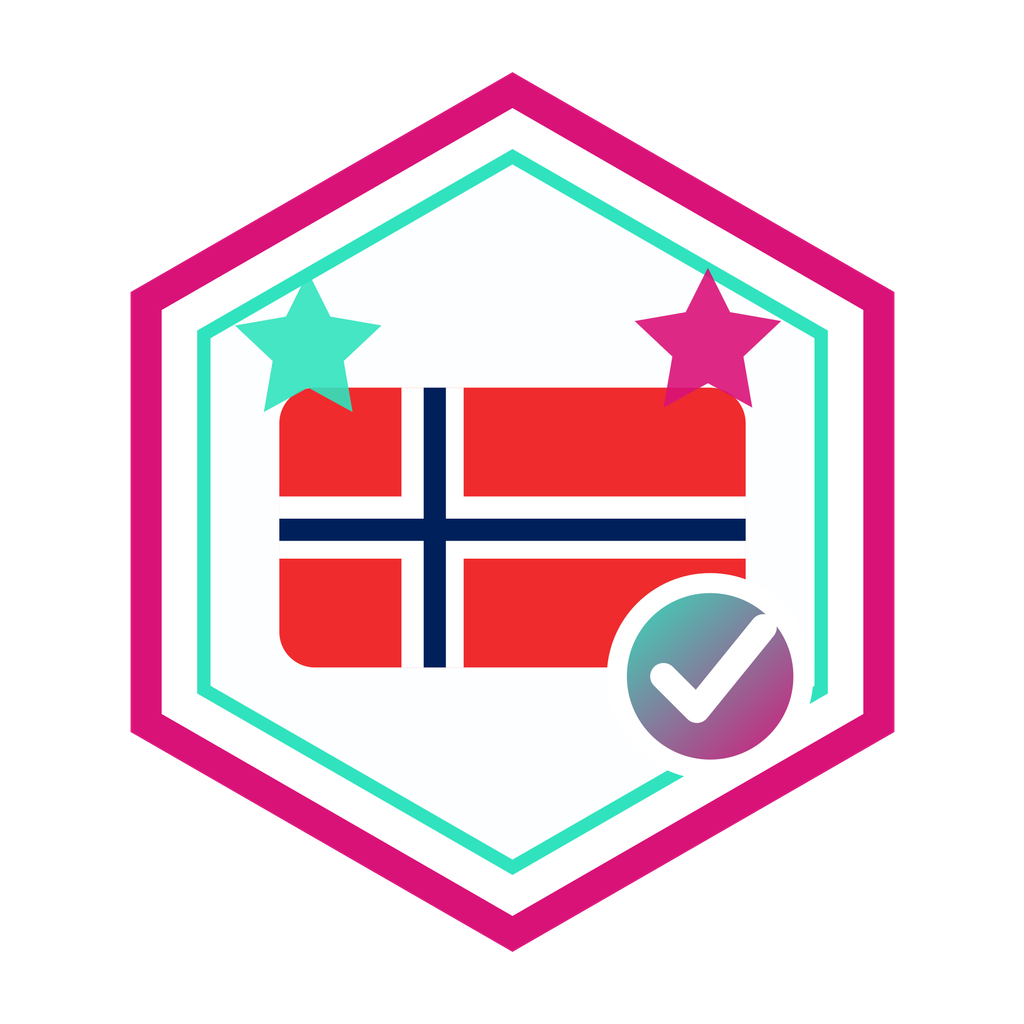
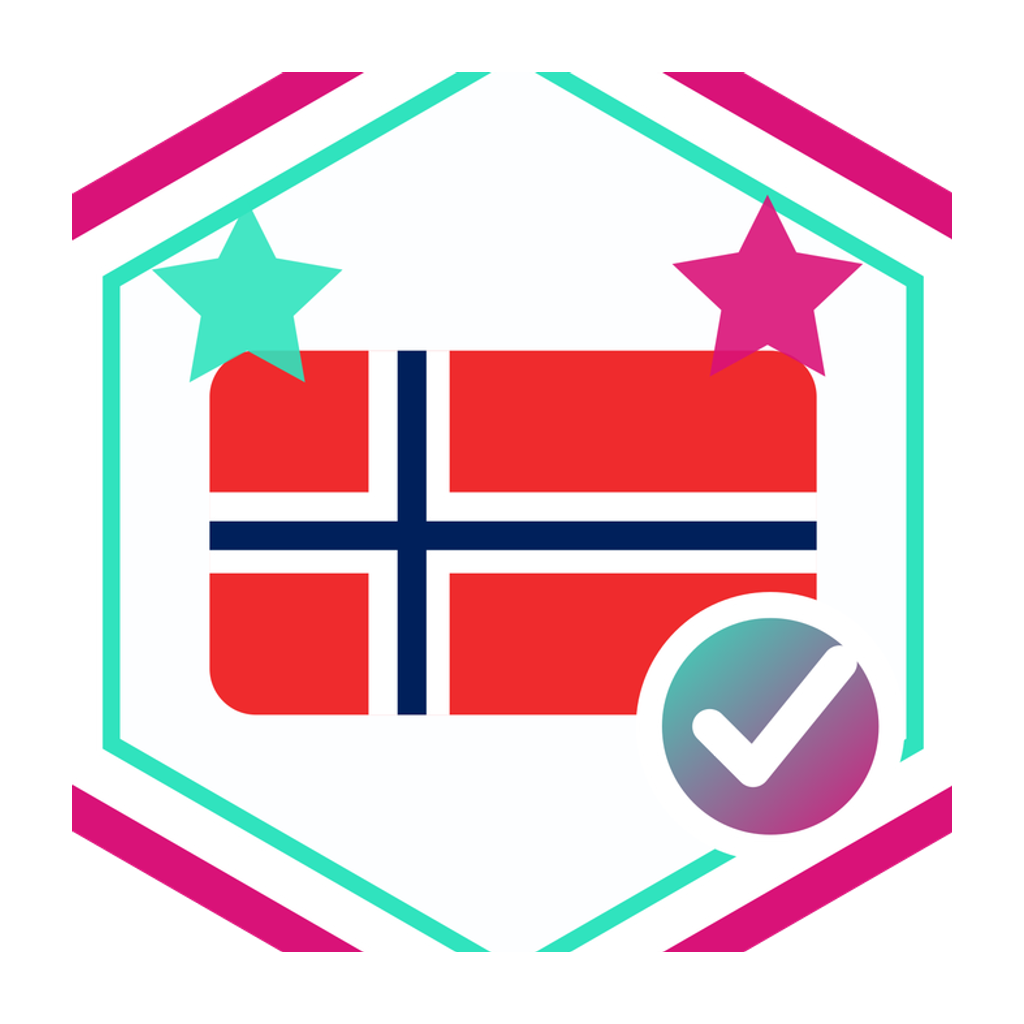
Legg til 200-klubben-badge og rammefri badge-visning.
Nytt ikon for sølv-nivå i klubben, bilde per hundremilepæl, og strip av hvit hex-plate på badge-PNG-er.

diff --git a/src/app/badgeAssets.ts b/src/app/badgeAssets.ts
@@ -1,7 +1,12 @@
 /** Felles badge-bilder (PNG 1024×1024, normalisert visuell størrelse). */
+export const WORKOUT_CLUB_BADGE_IMAGE_BY_TARGET: Record<number, string> = {
+  100: "/badges/32-100-klubben.png",
+  200: "/badges/34-200-klubben.png",
+};
+
 export const MEMBER_BADGE_IMAGE_BY_ID: Record<string, string> = {
   sessions: "/badges/02-oktjeger.png",
-  "workout-club": "/badges/32-100-klubben.png",
+  "workout-club": WORKOUT_CLUB_BADGE_IMAGE_BY_TARGET[100],
   streak: "/badges/08-streak.png",
   "monday-hero": "/badges/30-mandagshelt.png",
   "weekend-warrior": "/badges/31-helgekriger.png",
@@ -35,6 +40,31 @@ export const HIDDEN_MEMBER_BADGE_IMAGE_BY_ID: Record<string, string> = {
   "christmas-pump": MEMBER_BADGE_IMAGE_BY_ID["christmas-pump"],
 };
 
-export function memberBadgeImageSrc(badgeId: string): string {
-  return MEMBER_BADGE_IMAGE_BY_ID[badgeId] ?? "/badges/01-forste-steg.png";
+type MemberBadgeImageInput = {
+  id: string;
+  unlocked: boolean;
+  achievedLevelIndex: number;
+  levels: Array<{ target: number }>;
+};
+
+function workoutClubDisplayTarget(badge: MemberBadgeImageInput): number {
+  const index = badge.unlocked ? Math.max(0, badge.achievedLevelIndex) : 0;
+  return badge.levels[index]?.target ?? 100;
+}
+
+function workoutClubBadgeImageSrc(target: number): string {
+  if (target >= 200) return WORKOUT_CLUB_BADGE_IMAGE_BY_TARGET[200];
+  return WORKOUT_CLUB_BADGE_IMAGE_BY_TARGET[100];
+}
+
+export function memberBadgeImageSrc(badgeId: string): string;
+export function memberBadgeImageSrc(badge: MemberBadgeImageInput): string;
+export function memberBadgeImageSrc(badgeOrId: string | MemberBadgeImageInput): string {
+  if (typeof badgeOrId === "string") {
+    return MEMBER_BADGE_IMAGE_BY_ID[badgeOrId] ?? "/badges/01-forste-steg.png";
+  }
+  if (badgeOrId.id === "workout-club") {
+    return workoutClubBadgeImageSrc(workoutClubDisplayTarget(badgeOrId));
+  }
+  return MEMBER_BADGE_IMAGE_BY_ID[badgeOrId.id] ?? "/badges/01-forste-steg.png";
 }

diff --git a/src/app/badgeImagePresentation.ts b/src/app/badgeImagePresentation.ts
@@ -2,14 +2,14 @@
 export const BADGE_IMAGE_BOX_CLASS = "h-[5.4rem] w-[5.4rem]";
 
 export const BADGE_IMAGE_WRAPPER_CLASS =
-  `${BADGE_IMAGE_BOX_CLASS} overflow-hidden rounded-xl bg-white`;
+  `${BADGE_IMAGE_BOX_CLASS} overflow-hidden rounded-xl bg-transparent`;
 
 /** Ingen ekstra padding — motivet er normalisert til samme canvas som tungvekter. */
 export const BADGE_IMAGE_CLASS =
   "h-full w-full object-contain p-0 drop-shadow-sm";
 
 export const BADGE_IMAGE_POPUP_WRAPPER_CLASS =
-  "mx-auto mt-4 flex h-36 w-36 items-center justify-center overflow-hidden rounded-xl bg-white";
+  "mx-auto mt-4 flex h-36 w-36 items-center justify-center overflow-hidden rounded-xl bg-transparent";
 
 export const BADGE_IMAGE_POPUP_CLASS =
   "h-full w-full object-contain p-0 drop-shadow-sm";

diff --git a/src/app/memberBadges.test.ts b/src/app/memberBadges.test.ts
@@ -1,4 +1,5 @@
 import { describe, expect, it } from "vitest";
+import { memberBadgeImageSrc } from "./badgeAssets";
 import {
   computeActiveCardioMinutesFromLogs,
   computeConsecutiveMondayWorkouts,
@@ -119,6 +120,8 @@ describe("memberBadges", () => {
     expect(secondClub?.title).toBe("200 klubben");
     expect(secondClub?.level).toBe("silver");
     expect(secondClub?.target).toBe(300);
+    expect(firstClub && memberBadgeImageSrc(firstClub)).toContain("32-100-klubben");
+    expect(secondClub && memberBadgeImageSrc(secondClub)).toContain("34-200-klubben");
   });
 
   it("unlocks and upgrades Monday hero from consecutive Monday workouts", () => {

diff --git a/src/features/MemberBadgesCarousel.tsx b/src/features/MemberBadgesCarousel.tsx
@@ -87,7 +87,7 @@ function BadgeCard({
   const level = LEVEL_STYLES[badge.level];
   const nextLevel = getBadgeNextLevel(badge);
   const isMaxed = !nextLevel;
-  const badgeImage = memberBadgeImageSrc(badge.id);
+  const badgeImage = memberBadgeImageSrc(badge);
   async function shareBadge() {
     if (!badge.unlocked || isSharing) return;
     setIsSharing(true);
